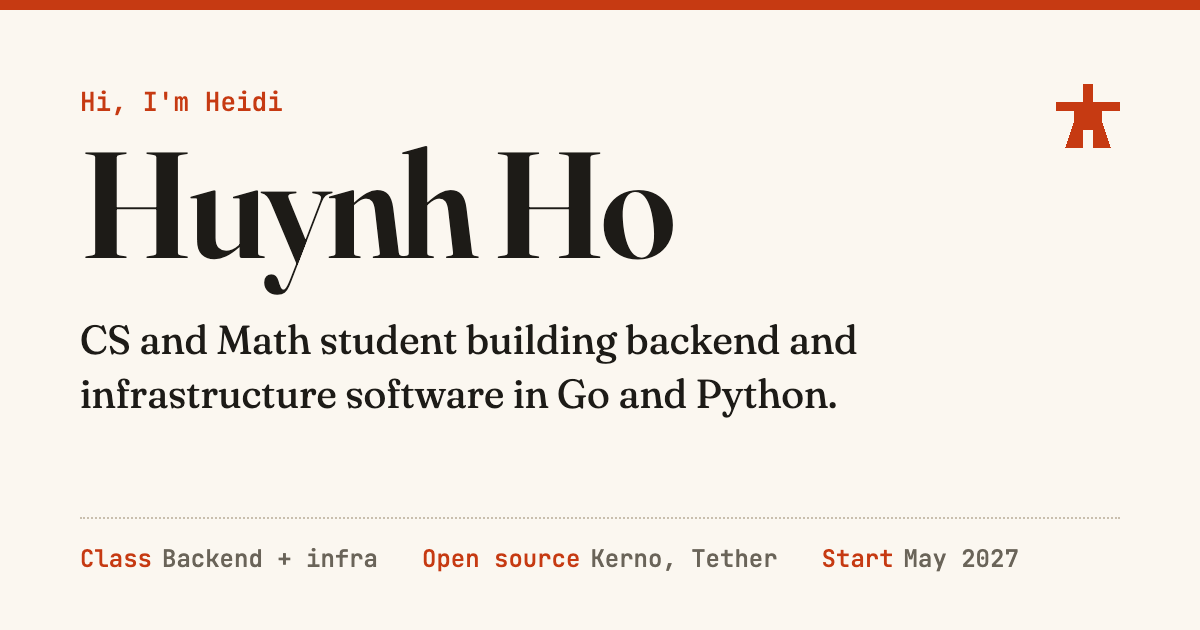
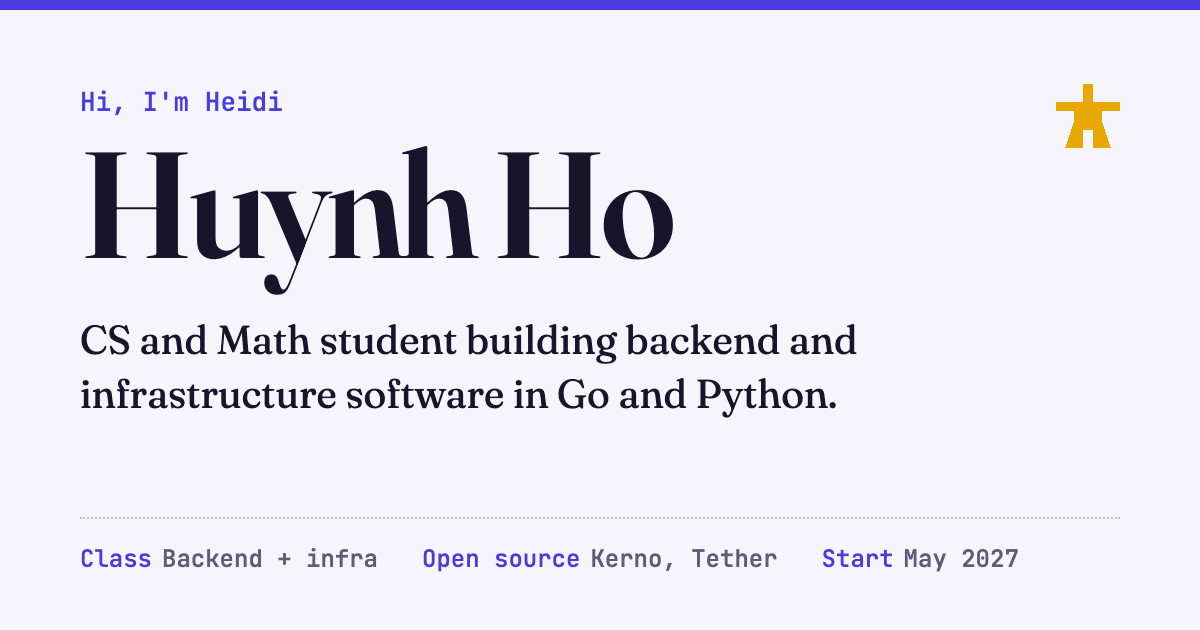
Switch palette to indigo and violet with a gold star

diff --git a/style.css b/style.css
@@ -3,14 +3,15 @@
 @font-face { font-family: "JetBrains Mono"; font-weight: 400 500; font-display: swap; src: url(fonts/JetBrainsMono.woff2) format("woff2"); }
 
 :root {
-  --bg: #fbf7f0;
+  --bg: #f6f5fb;
   --panel: #ffffff;
-  --fg: #1d1b17;
-  --muted: #6a6459;
-  --rule: #e4dccd;
-  --accent: #c63a12;
+  --fg: #17142b;
+  --muted: #5f5b78;
+  --rule: #e0ddef;
+  --accent: #4a3bdc;
   --accent-ink: #ffffff;
-  --accent-soft: #fbe7dd;
+  --accent-soft: #e8e5fb;
+  --gold: #e8a800;
   --max: 62rem;
   --serif: "Fraunces", Georgia, "Times New Roman", serif;
   --mono: "JetBrains Mono", ui-monospace, Menlo, monospace;
@@ -19,14 +20,15 @@
 
 @media (prefers-color-scheme: dark) {
   :root:not([data-theme="light"]) {
-    --bg: #16130f;
-    --panel: #1f1b16;
-    --fg: #f3ede2;
-    --muted: #a69f92;
-    --rule: #332d25;
-    --accent: #ff8a63;
-    --accent-ink: #1a0f0a;
-    --accent-soft: #3a241b;
+    --bg: #0f0e1a;
+    --panel: #181628;
+    --fg: #efedfb;
+    --muted: #a29fbd;
+    --rule: #2a2740;
+    --accent: #a79bff;
+    --accent-ink: #0f0b2a;
+    --accent-soft: #26214a;
+    --gold: #ffc83d;
   }
 }
 
@@ -40,6 +42,7 @@
   --accent: #0f380f;
   --accent-ink: #e0f0c8;
   --accent-soft: #bcd98a;
+  --gold: #0f380f;
 }
 
 * { box-sizing: border-box; }
@@ -128,7 +131,7 @@ p { margin: 0 0 0.8rem; }
 .pr { padding: 0 0 1.2rem; margin-bottom: 1.2rem; border-bottom: 1px dotted var(--rule); }
 .pr:last-child { border-bottom: 0; margin-bottom: 0.4rem; }
 .pr-head { display: flex; flex-wrap: wrap; align-items: center; gap: 0.4rem 0.7rem; margin-bottom: 0.35rem; }
-.star { width: 0.95rem; height: 0.95rem; fill: var(--accent); }
+.star { width: 0.95rem; height: 0.95rem; fill: var(--gold); }
 .unlocked { font: 500 0.68rem var(--mono); letter-spacing: 0.1em; text-transform: uppercase; color: var(--accent); }
 .prnum { font: 600 0.9rem var(--mono); }
 .merged { font: 500 0.7rem var(--mono); background: var(--accent-soft); color: var(--accent); padding: 0.15rem 0.5rem; border-radius: 999px; }

diff --git a/index.html b/index.html
@@ -14,7 +14,7 @@
   <meta property="og:image:height" content="630">
   <meta property="og:image:alt" content="Huynh Ho, CS and Math student building backend and infrastructure software in Go and Python.">
   <meta name="twitter:card" content="summary_large_image">
-  <meta name="theme-color" content="#fbf7f0">
+  <meta name="theme-color" content="#f6f5fb">
   <link rel="icon" href="favicon.svg" type="image/svg+xml">
   <link rel="canonical" href="https://huynna12.github.io/">
   <link rel="preload" href="fonts/Fraunces.woff2" as="font" type="font/woff2" crossorigin>
